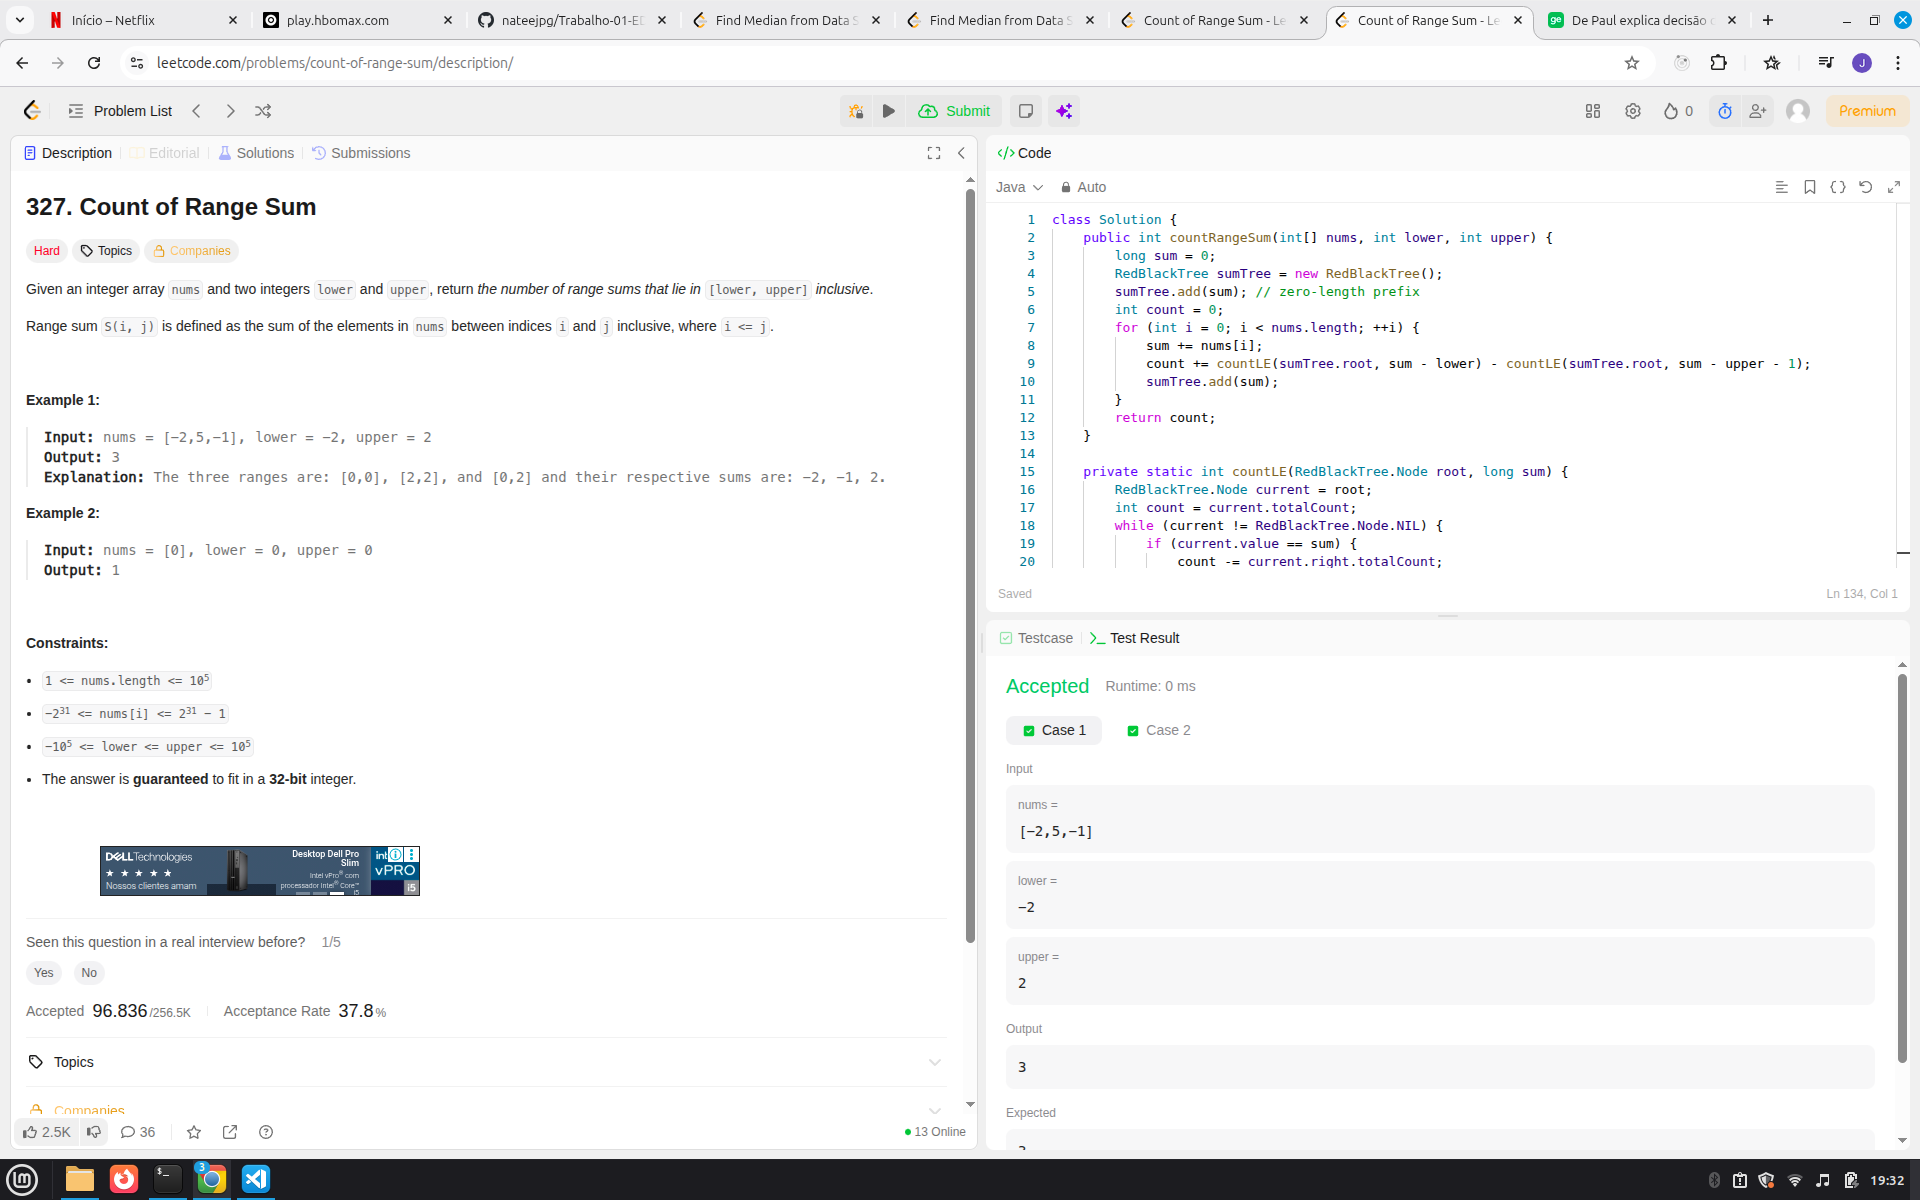
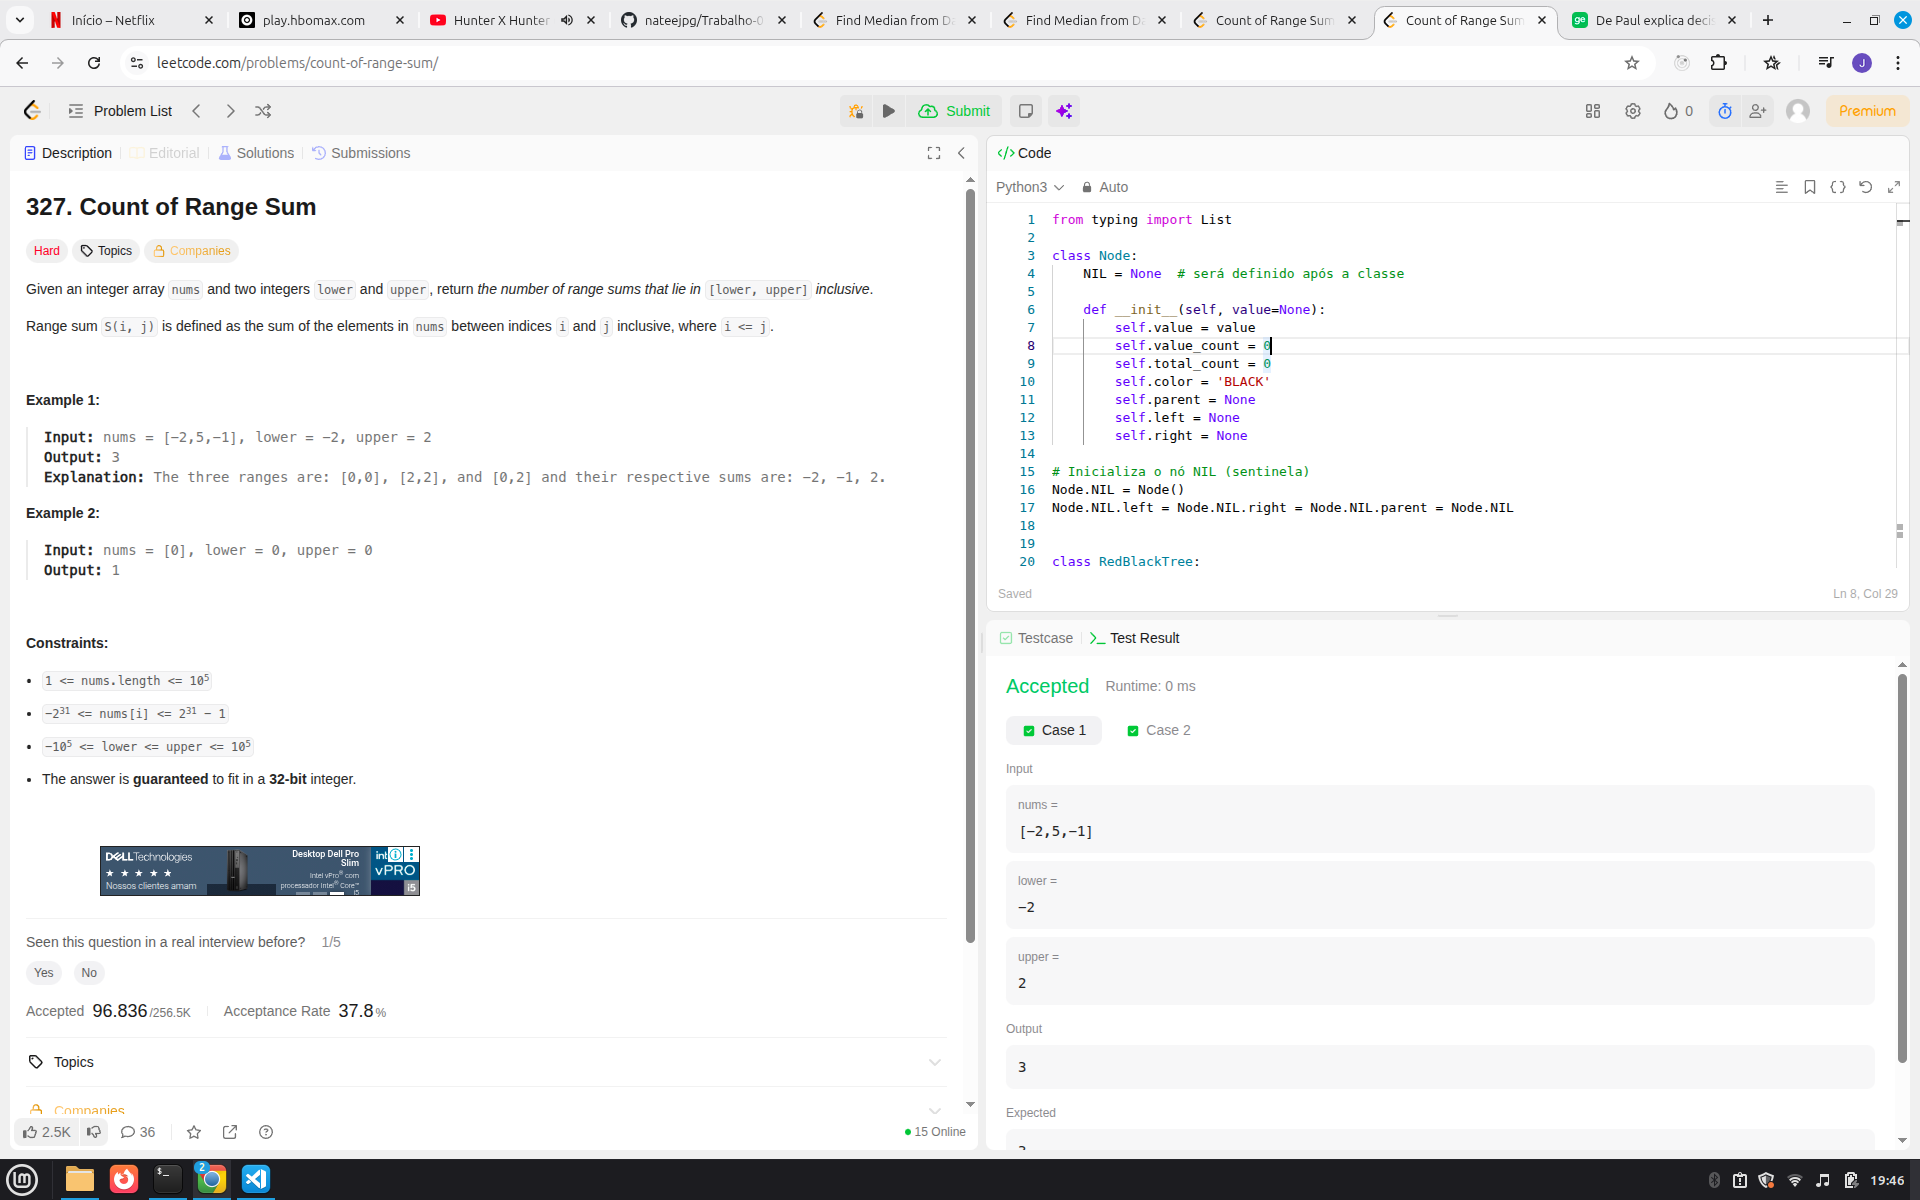
correção

diff --git a/README.md b/README.md
@@ -74,30 +74,28 @@ output:
 
 ```
 
-### Questão 03
+### Questão 295. Find Median from Data Stream
 
-rode o Python: Joao_Pedro/BinaryTree.py
-
-```
-input: 
-root = [1,2,3]
-
-
-output:
- 6
+rode o Python: Joao_Pedro/295.py
 
 ```
+Input
+["MedianFinder", "addNum", "addNum", "findMedian", "addNum", "findMedian"]
+[[], [1], [2], [], [3], []]
+Output
+[null, null, null, 1.5, null, 2.0]
 
-### Questão 04
-
-rode o Python: Joao_Pedro/SudokuSolver.py
 
 ```
-input: 
-board = [["5","3",".",".","7",".",".",".","."],["6",".",".","1","9","5",".",".","."],[".","9","8",".",".",".",".","6","."],["8",".",".",".","6",".",".",".","3"],["4",".",".","8",".","3",".",".","1"],["7",".",".",".","2",".",".",".","6"],[".","6",".",".",".",".","2","8","."],[".",".",".","4","1","9",".",".","5"],[".",".",".",".","8",".",".","7","9"]]
 
-output:
-[["5","3","4","6","7","8","9","1","2"],["6","7","2","1","9","5","3","4","8"],["1","9","8","3","4","2","5","6","7"],["8","5","9","7","6","1","4","2","3"],["4","2","6","8","5","3","7","9","1"],["7","1","3","9","2","4","8","5","6"],["9","6","1","5","3","7","2","8","4"],["2","8","7","4","1","9","6","3","5"],["3","4","5","2","8","6","1","7","9"]]
+### Questão 327. Count of Range Sum
+
+rode o Python: Joao_Pedro/327.py
+
+```
+Input: nums = [-2,5,-1], lower = -2, upper = 2
+Output: 3
+Explanation: The three ranges are: [0,0], [2,2], and [0,2] and their respective sums are: -2, -1, 2.
 
 ```
 
